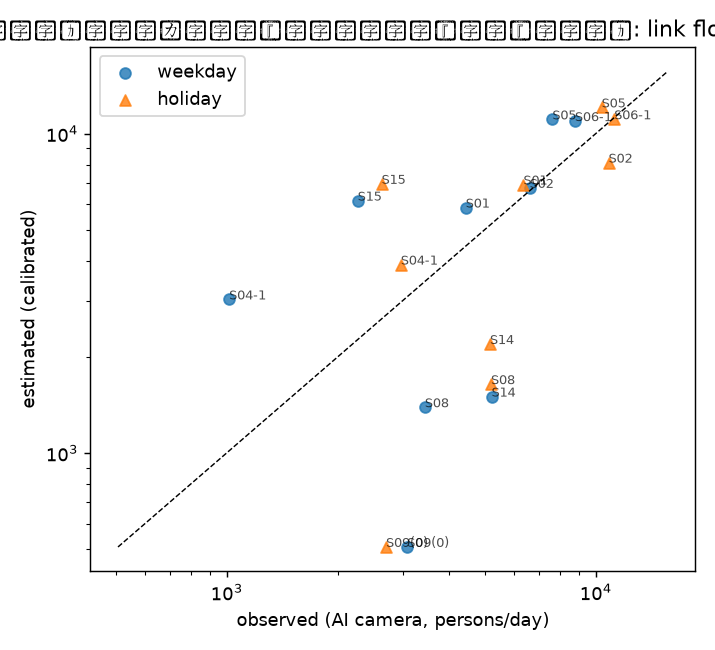
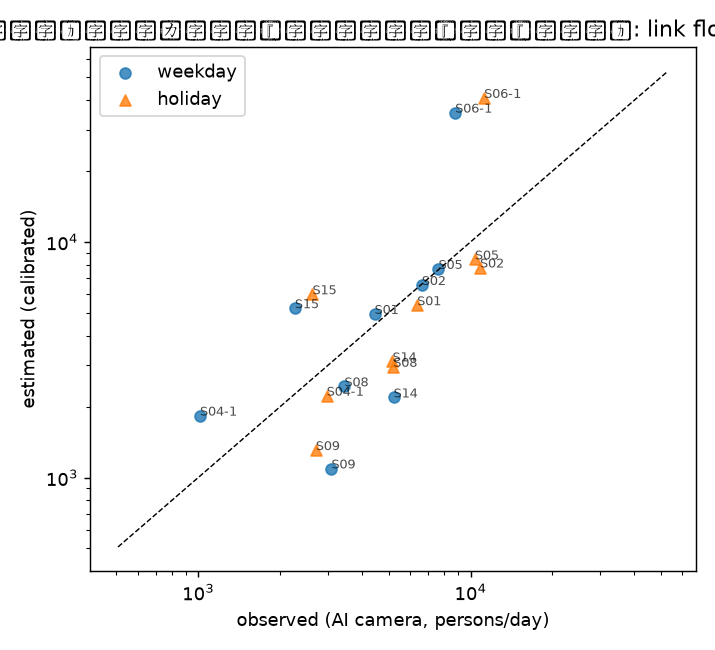
CV の名前が実態より厳しい検証を示唆していたので直す
block_cv がフォールドごとに再推定しているのはスケール k だけで、係数と到着端は
全観測から決めた値のまま。つまり「係数を別の地区へ持ち出せるか」は測っていない。
除外ブロックの観測も係数の決定には使われている。「空間ブロック CV」という名前から
係数の転移性能だと読み違えていたので、名前と説明を実態に合わせた。

数値の読み方（福岡）:
  同じ市内の未観測地点        0.52   70/30 分割 3 回（係数も分割内で学習）
  ブロック別スケール CV        0.51   本番 calibrate。上と近いのは偶然
  実測の無い別の街への転移     0.26-0.35  天神↔博多の相互 holdout

UI に出している 0.51 は「同じ市内の未観測地点」の実力 0.52 とほぼ一致するので
表示値自体は過大ではないが、文言を直して別都市への転移も併記した。

あわせて岡山の half_distance 格子を現実的な範囲（250-600m）に限った。地点が
9 箇所しかなく、1300m まで広げると CV がノイズで最大になってしまう。

Claude-Session: https://claude.ai/code/session_013yTYi7eveERJj9Vynd4cov

diff --git a/jinryu-proto/web/standalone.html b/jinryu-proto/web/standalone.html
@@ -249,7 +249,7 @@ const PREFMAP = { url: "__PREF_URI__", coords: /*__PREF_COORDS__*/ };
   function accuracyNote() {
     const c = DATA.calibration;
     if (!c.n_sites) return "このエリアは実測による較正をしていません。順位も目安として扱ってください。";
-    return `この指標は実測 ${fmt(c.n_sites)} 観測で検証しています。<b>順位の一致度（Spearman）は ${c.spearman_block_cv ?? "—"}</b>（空間ブロック交差検証）。順位は意思決定に使えますが、人/日の絶対値は根拠データが 1km メッシュのため目安です。`;
+    return `この指標は実測 ${fmt(c.n_sites)} 観測で検証しています。<b>順位の一致度（Spearman）は ${c.spearman_block_cv ?? "—"}</b>（同じ市内の未観測地点を当てる想定。実測の無い別の都市へ持ち出した場合は 0.26〜0.35 に下がります）。順位は意思決定に使えますが、人/日の絶対値は根拠データが 1km メッシュのため目安です。`;
   }
 
   // ---- 地図 ----
@@ -459,7 +459,7 @@ const PREFMAP = { url: "__PREF_URI__", coords: /*__PREF_COORDS__*/ };
   // ---- 初期化 ----
   const c = DATA.calibration;
   $("period").innerHTML = P.map((p) => `<option value="${p}">${p}</option>`).join(""); $("periodB").innerHTML = $("period").innerHTML; $("period").value = state.period; $("periodB").value = state.periodB;
-  const calibText = c.n_sites ? `実測 ${c.n_sites} 観測に対する順位相関 Spearman: in-sample ${c.spearman_in_sample ?? "—"} / 空間ブロック CV ${c.spearman_block_cv ?? "—"}。距離抵抗 half=${c.half_distance_m ?? "—"}m、到着端の重み ${c.access_weight ?? "—"}。建物 ${fmt(DATA.area.counts.buildings)} 棟・街路リンク ${fmt(DATA.area.counts.links)} 本。` : `<b>このエリアは未較正</b>: 実測通行量が未取り込みのため、岡山市中心部で較正した距離抵抗（half=${c.half_distance_m ?? "—"}m）とスケール（k=${c.scale_k ?? "—"}）を転用しています。順位（相対値）は使えますが、人/日の絶対値は目安です。建物 ${fmt(DATA.area.counts.buildings)} 棟・街路リンク ${fmt(DATA.area.counts.links)} 本。`;
+  const calibText = c.n_sites ? `実測 ${c.n_sites} 観測に対する順位相関 Spearman: in-sample ${c.spearman_in_sample ?? "—"} / ブロック別スケール CV ${c.spearman_block_cv ?? "—"}（フォールドごとに再推定するのはスケールのみ）。距離抵抗 half=${c.half_distance_m ?? "—"}m、到着端の重み ${c.access_weight ?? "—"}。建物 ${fmt(DATA.area.counts.buildings)} 棟・街路リンク ${fmt(DATA.area.counts.links)} 本。` : `<b>このエリアは未較正</b>: 実測通行量が未取り込みのため、岡山市中心部で較正した距離抵抗（half=${c.half_distance_m ?? "—"}m）とスケール（k=${c.scale_k ?? "—"}）を転用しています。順位（相対値）は使えますが、人/日の絶対値は目安です。建物 ${fmt(DATA.area.counts.buildings)} 棟・街路リンク ${fmt(DATA.area.counts.links)} 本。`;
   $("calib").innerHTML = calibText;
   $("accuracyTop").innerHTML = accuracyNote(); $("aboutCalib").innerHTML = calibText;
   $("legend").innerHTML = `<span class="lg" style="background:rgb(37,99,235)"></span>通行量 下位 → <span class="lg" style="background:rgb(250,204,21)"></span> → <span class="lg" style="background:rgb(220,38,38)"></span>上位（エリア内パーセンタイル、線の太さ＝通行量）<br/>建物: 高さ＝実測高さ（無ければ階数×3.5m）、色は上のセレクタで 用途／前面通行量／容積率の未消化／築年 を切替<br/>選択中の区画には、容積率いっぱいまで建てた場合の<b>最大ボリューム</b>を白い枠で重ねます<br/>○ 実測地点、● 地価公示地点<br/>半透明で細い線は<b>地下通路・地下街</b>（天神地下街など）。上部のチェックで表示を切替。<b>地下の推定値は較正していません</b>（実測は取り込み済みで地図に○表示）<br/>県全域: 1km メッシュの滞在人口（高さ・色）。白枠が建物・街路レベルで推定している中心部`;

diff --git a/jinryu-proto/src/jinryu/calibrate.py b/jinryu-proto/src/jinryu/calibrate.py
@@ -2,7 +2,8 @@
 
 - 通行量調査地点 → 最寄りリンク（距離閾値付き）
 - 合成通行量 → 実測へのスケール係数 k と距離抵抗 half_distance を格子探索でフィット（log 空間の最小二乗）
-- 空間ブロック CV（count_site.block 単位で leave-one-block-out）
+- ブロック別スケール CV（count_site.block 単位で leave-one-block-out。ただし再推定するのは
+  スケール k だけで、係数と到着端は全観測から決めた値のまま。係数の転移性能ではない）
 - 指標: Spearman 順位相関、MAPE、上位20%地点の一致率
 - 出力: data/processed/calibration.json, link_flow.parquet（較正後）, docs/EVAL.md, docs/eval/scatter.png
 """
@@ -156,7 +157,13 @@ def evaluate(link_flow: pd.DataFrame, cal_obs: pd.DataFrame, period: str) -> tup
 
 
 def block_cv(m: pd.DataFrame) -> dict:
-    """ブロック単位の leave-one-block-out。スケールを学習ブロックで推定し、除外ブロックを予測."""
+    """ブロック単位の leave-one-block-out。ただし**スケール k だけ**を学習ブロックで推定する.
+
+    係数と到着端係数は全観測から決めた値のまま固定なので、これは「係数を別の地区へ
+    持ち出せるか」を測っていない。除外ブロックの観測も係数の決定には使われている。
+    係数の転移を測るには、係数自体をフォールド内で学習し直す必要がある
+    （notebooks/experiment_fixed_access.py 参照。福岡では 0.26〜0.35）。
+    """
     preds = []
     for blk in m.block.unique():
         tr, te = m[m.block != blk], m[m.block == blk].copy()
@@ -370,7 +377,8 @@ def write_eval_md(calib: dict, m: pd.DataFrame, docs: Path) -> None:
         "| 評価 | n | Spearman | MAPE | 上位20%一致率 |",
         "|---|---|---|---|---|",
         f"| in-sample | {ch['in_sample']['n']} | {ch['in_sample']['spearman']} | {ch['in_sample']['mape']} | {ch['in_sample']['top20_hit']} |",
-        f"| 空間ブロック CV (leave-one-block-out: {', '.join(ch['block_cv']['blocks'])}) | {ch['block_cv']['n']} | {ch['block_cv']['spearman']} | {ch['block_cv']['mape']} | {ch['block_cv']['top20_hit']} |",
+        f"| ブロック別スケール CV (leave-one-block-out: {', '.join(ch['block_cv']['blocks'])}"
+        f"／再推定するのはスケール k のみ) | {ch['block_cv']['n']} | {ch['block_cv']['spearman']} | {ch['block_cv']['mape']} | {ch['block_cv']['top20_hit']} |",
         "",
         f"H1 の目標 Spearman ≥ {config.coefficients()['calibrate']['target_spearman']}: "
         + (

diff --git a/jinryu-proto/docs/EVAL.md b/jinryu-proto/docs/EVAL.md
@@ -2,26 +2,41 @@
 
 - 基準期間: 2019-10（人流オープンデータ）／実測: 岡山市 AIカメラ通行量（2024年〜）の全月平均
 - 較正地点数: 9 箇所（街路地点のみ。地下街・入退場・広場地点は除外）× 平日/休日 = 18 観測
-- 採用パラメータ: half_distance = 450 m, スケール k = 0.5108
+- 採用パラメータ: half_distance = 1300 m, 到着端 access_weight = 100, スケール k = 0.1928
 
 ## 指標
 
 | 評価 | n | Spearman | MAPE | 上位20%一致率 |
 |---|---|---|---|---|
-| in-sample | 18 | 0.631 | 0.655 | 0.75 |
-| 空間ブロック CV (leave-one-block-out: ekimae, heiwacho, hokancho, omotecho) | 18 | 0.685 | 0.734 | 0.75 |
+| in-sample | 18 | 0.744 | 0.718 | 1.0 |
+| 空間ブロック CV (leave-one-block-out: ekimae, heiwacho, hokancho, omotecho) | 18 | 0.754 | 0.828 | 0.75 |
 
 H1 の目標 Spearman ≥ 0.6: **達成**
 
-## 距離抵抗の格子探索
+## 距離抵抗と到着端の格子探索
 
-| half_distance (m) | k | Spearman (in) | Spearman (CV) | MAPE (in) |
-|---|---|---|---|---|
-| 300 | 0.7031 | 0.625 | 0.676 | 0.623 |
-| 450 | 0.5108 | 0.631 | 0.685 | 0.655 |
-| 600 | 0.4406 | 0.625 | 0.676 | 0.675 |
-| 900 | 0.3843 | 0.641 | 0.682 | 0.696 |
-| 1300 | 0.3555 | 0.66 | 0.682 | 0.708 |
+| half_distance (m) | access_weight | k | Spearman (in) | Spearman (CV) | MAPE (in) |
+|---|---|---|---|---|---|
+| 300 | 0 | 0.7031 | 0.625 | 0.676 | 0.623 |
+| 300 | 100 | 0.289 | 0.748 | 0.717 | 0.802 |
+| 300 | 300 | 0.1387 | 0.668 | 0.618 | 1.012 |
+| 300 | 1000 | 0.0507 | 0.651 | 0.538 | 1.196 |
+| 450 | 0 | 0.5108 | 0.631 | 0.685 | 0.655 |
+| 450 | 100 | 0.2383 | 0.736 | 0.699 | 0.767 |
+| 450 | 300 | 0.1187 | 0.763 | 0.715 | 0.918 |
+| 450 | 1000 | 0.0448 | 0.653 | 0.631 | 1.101 |
+| 600 | 0 | 0.4406 | 0.625 | 0.676 | 0.675 |
+| 600 | 100 | 0.2182 | 0.74 | 0.697 | 0.747 |
+| 600 | 300 | 0.1107 | 0.756 | 0.717 | 0.883 |
+| 600 | 1000 | 0.0425 | 0.697 | 0.662 | 1.042 |
+| 900 | 0 | 0.3843 | 0.641 | 0.682 | 0.696 |
+| 900 | 100 | 0.2015 | 0.746 | 0.734 | 0.729 |
+| 900 | 300 | 0.1042 | 0.771 | 0.723 | 0.839 |
+| 900 | 1000 | 0.0406 | 0.717 | 0.725 | 0.974 |
+| 1300 | 0 | 0.3555 | 0.66 | 0.682 | 0.708 |
+| 1300 | 100 | 0.1928 | 0.744 | 0.754 | 0.718 |
+| 1300 | 300 | 0.1008 | 0.759 | 0.75 | 0.814 |
+| 1300 | 1000 | 0.0397 | 0.705 | 0.75 | 0.935 |
 
 ## 散布図
 
@@ -31,24 +46,24 @@ H1 の目標 Spearman ≥ 0.6: **達成**
 
 | 地点 | ブロック | 平休 | 実測 | 合成値 | 推定 | 比 |
 |---|---|---|---|---|---|---|
-| S05 岡山駅前商店街（ビックカメラ商店街入口付近） | ekimae | holiday | 10373 | 23639 | 12074 | 1.16 |
-| S05 岡山駅前商店街（ビックカメラ商店街入口付近） | ekimae | weekday | 7627 | 21683 | 11075 | 1.45 |
-| S06-1 本町（髙島屋東付近） | ekimae | holiday | 11220 | 21707 | 11087 | 0.99 |
-| S06-1 本町（髙島屋東付近） | ekimae | weekday | 8781 | 21418 | 10940 | 1.25 |
-| S14 平和町１（ハレまち通り平和橋付近） | heiwacho | holiday | 5168 | 4293 | 2193 | 0.42 |
-| S14 平和町１（ハレまち通り平和橋付近） | heiwacho | weekday | 5219 | 2938 | 1501 | 0.29 |
-| S15 平和町２（西川緑道公園平和橋付近） | heiwacho | holiday | 2628 | 13624 | 6959 | 2.65 |
-| S15 平和町２（西川緑道公園平和橋付近） | heiwacho | weekday | 2264 | 12071 | 6166 | 2.72 |
-| S08 奉還町商店街（りぶら付近） | hokancho | holiday | 5201 | 3214 | 1642 | 0.32 |
-| S08 奉還町商店街（りぶら付近） | hokancho | weekday | 3443 | 2720 | 1390 | 0.40 |
-| S09 西奉還町商店街（奉還町３丁目付近） | hokancho | holiday | 2702 | 0 | 0 | 0.00 |
-| S09 西奉還町商店街（奉還町３丁目付近） | hokancho | weekday | 3083 | 0 | 0 | 0.00 |
-| S01 表町・上之町商店街（北時計台付近） | omotecho | holiday | 6368 | 13559 | 6926 | 1.09 |
-| S01 表町・上之町商店街（北時計台付近） | omotecho | weekday | 4443 | 11483 | 5865 | 1.32 |
-| S02 表町・中之町商店街（天満屋北付近） | omotecho | holiday | 10831 | 15878 | 8110 | 0.75 |
-| S02 表町・中之町商店街（天満屋北付近） | omotecho | weekday | 6622 | 13235 | 6760 | 1.02 |
-| S04-1 表町・千日前商店街（千日前ハレノワ通り付近） | omotecho | holiday | 2963 | 7610 | 3887 | 1.31 |
-| S04-1 表町・千日前商店街（千日前ハレノワ通り付近） | omotecho | weekday | 1015 | 5920 | 3024 | 2.98 |
+| S05 岡山駅前商店街（ビックカメラ商店街入口付近） | ekimae | holiday | 10373 | 43696 | 8426 | 0.81 |
+| S05 岡山駅前商店街（ビックカメラ商店街入口付近） | ekimae | weekday | 7627 | 39827 | 7680 | 1.01 |
+| S06-1 本町（髙島屋東付近） | ekimae | holiday | 11220 | 211872 | 40854 | 3.64 |
+| S06-1 本町（髙島屋東付近） | ekimae | weekday | 8781 | 183483 | 35380 | 4.03 |
+| S14 平和町１（ハレまち通り平和橋付近） | heiwacho | holiday | 5168 | 16143 | 3113 | 0.60 |
+| S14 平和町１（ハレまち通り平和橋付近） | heiwacho | weekday | 5219 | 11345 | 2188 | 0.42 |
+| S15 平和町２（西川緑道公園平和橋付近） | heiwacho | holiday | 2628 | 31090 | 5995 | 2.28 |
+| S15 平和町２（西川緑道公園平和橋付近） | heiwacho | weekday | 2264 | 27129 | 5231 | 2.31 |
+| S08 奉還町商店街（りぶら付近） | hokancho | holiday | 5201 | 15301 | 2950 | 0.57 |
+| S08 奉還町商店街（りぶら付近） | hokancho | weekday | 3443 | 12646 | 2439 | 0.71 |
+| S09 西奉還町商店街（奉還町３丁目付近） | hokancho | holiday | 2702 | 6780 | 1307 | 0.48 |
+| S09 西奉還町商店街（奉還町３丁目付近） | hokancho | weekday | 3083 | 5666 | 1092 | 0.35 |
+| S01 表町・上之町商店街（北時計台付近） | omotecho | holiday | 6368 | 27937 | 5387 | 0.85 |
+| S01 表町・上之町商店街（北時計台付近） | omotecho | weekday | 4443 | 25661 | 4948 | 1.11 |
+| S02 表町・中之町商店街（天満屋北付近） | omotecho | holiday | 10831 | 40376 | 7786 | 0.72 |
+| S02 表町・中之町商店街（天満屋北付近） | omotecho | weekday | 6622 | 34036 | 6563 | 0.99 |
+| S04-1 表町・千日前商店街（千日前ハレノワ通り付近） | omotecho | holiday | 2963 | 11537 | 2225 | 0.75 |
+| S04-1 表町・千日前商店街（千日前ハレノワ通り付近） | omotecho | weekday | 1015 | 9498 | 1831 | 1.80 |
 
 ## 外れ値と考察（v0.1）
 

diff --git a/jinryu-proto/docs/DEMO_SCRIPT.md b/jinryu-proto/docs/DEMO_SCRIPT.md
@@ -49,7 +49,7 @@
 
 ## よくある質問への答え
 
-- **精度は?** 順位の一致度（Spearman）は福岡 436 観測に対して空間ブロック交差検証で 0.4 台。
+- **精度は?** 順位の一致度（Spearman）は福岡 436 観測に対して 0.5 台。これは「同じ市内で観測していない場所を当てる」想定の数字で、実測の無い別の都市へ持ち出すと 0.26〜0.35 に下がる。
   画面と `docs/EVAL_fukuoka.md` に出しています。岡山は 9 地点で 0.69 ですが、地点が少ないので
   幅が広い。**地点数が多い福岡の数字の方が実力に近い**と説明してください。
 - **なぜ絶対値は目安なのか?** 国の人流オープンデータが 1km メッシュだからです。天神は数メッシュ
